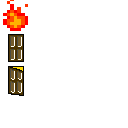
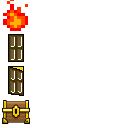
Add treasure version
Fix issue where trajectory IDs would change due to randomization

Changed region(s): [[0.0, 0.7812, 0.25, 0.9688]]

diff --git a/interface/src/sorting-index.ts b/interface/src/sorting-index.ts
@@ -9,7 +9,7 @@ import {GridworldGame} from "./gridworld-game";
 
 
 let terrain =  "'XXXXXXX',\
-    'X    GX',\
+    'XR   GX',\
         'X-----X',\
         'X--F--X',\
         'X-----X',\
@@ -17,7 +17,9 @@ let terrain =  "'XXXXXXX',\
         'XXXXXXX'"
 const batch = [{"trajectory": [0, 0, 0, 1, 0, 1, 1, 1, 0, 0], "return": 1.0, "entropy": 1.28819256228539}, {"trajectory": [1, 1, 1, 0, 1, 0, 0, 0, 0, 0], "return": 1.0, "entropy": 1.4103868378388813}, {"trajectory": [0, 0, 1, 1, 0, 1, 1, 0, 0, 0], "return": 1.0, "entropy": 1.4429867280989206}, {"trajectory": [1, 0, 1, 0, 0, 1, 1, 0, 0, 0], "return": 1.0, "entropy": 1.4672969161666547}, {"trajectory": [1, 0, 1, 0, 1, 0, 1, 0, 0, 0], "return": 1.0, "entropy": 1.4837686468584161}, {"trajectory": [0, 1, 0, 1, 1, 0, 0, 1, 0, 0], "return": 1.0, "entropy": 1.4917118291027376}, {"trajectory": [0, 0, 1, 0, 0, 1, 1, 1, 0, 0], "return": 1.0, "entropy": 1.5042453752190077}, {"trajectory": [0, 1, 1, 0, 0, 0, 1, 1, 0, 0], "return": 1.0, "entropy": 1.508412008076134}, {"trajectory": [0, 1, 0, 1, 1, 1, 0, 0, 0, 0], "return": 1.0, "entropy": 1.5094403920939814}, {"trajectory": [0, 1, 0, 1, 1, 0, 1, 0, 0, 0], "return": 1.0, "entropy": 1.5116626204309886}, {"trajectory": [1, 0, 1, 1, 0, 0, 0, 1, 0, 0], "return": 1.0, "entropy": 1.5310007481853964}, {"trajectory": [0, 0, 1, 0, 1, 0, 1, 1, 0, 0], "return": 1.0, "entropy": 1.5345223577036649}, {"trajectory": [0, 1, 1, 1, 1, 0, 0, 0, 0, 0], "return": 1.0, "entropy": 1.5415051673414226}, {"trajectory": [1, 0, 1, 1, 0, 1, 0, 0, 0, 0], "return": 1.0, "entropy": 1.5429626891631936}, {"trajectory": [0, 0, 1, 0, 1, 1, 1, 0, 0, 0], "return": 1.0, "entropy": 1.5528003944973403}, {"trajectory": [1, 0, 0, 1, 0, 0, 1, 1, 0, 0], "return": 1.0, "entropy": 1.553722847735663}, {"trajectory": [1, 0, 1, 1, 1, 0, 0, 0, 0, 0], "return": 1.0, "entropy": 1.5562122557494682}, {"trajectory": [1, 1, 1, 0, 0, 0, 0, 1, 0, 0], "return": 1.0, "entropy": 1.568979224326843}, {"trajectory": [1, 0, 0, 1, 1, 0, 0, 1, 0, 0], "return": 1.0, "entropy": 1.5695674185000275}, {"trajectory": [0, 1, 0, 0, 0, 1, 1, 1, 0, 0], "return": 1.0, "entropy": 1.569603172834871}, {"trajectory": [0, 1, 1, 0, 0, 1, 1, 0, 0, 0], "return": 1.0, "entropy": 1.585197468439806}, {"trajectory": [1, 1, 0, 0, 1, 1, 0, 0, 0, 0], "return": 1.0, "entropy": 1.5874618600147672}, {"trajectory": [1, 0, 0, 0, 1, 1, 0, 1, 0, 0], "return": 1.0, "entropy": 1.5876716344145083}, {"trajectory": [1, 0, 1, 0, 0, 1, 0, 1, 0, 0], "return": 1.0, "entropy": 1.5981144795743414}, {"trajectory": [1, 1, 0, 1, 0, 0, 0, 1, 0, 0], "return": 1.0, "entropy": 1.6039400902547996}, {"trajectory": [0, 0, 0, 1, 1, 0, 1, 1, 0, 0], "return": 1.0, "entropy": 1.6114582494765612}, {"trajectory": [1, 1, 0, 1, 1, 0, 0, 0, 0, 0], "return": 1.0, "entropy": 1.6124188749237782}, {"trajectory": [0, 0, 0, 0, 1, 1, 1, 1, 0, 0], "return": 1.0, "entropy": 1.6129756838729739}, {"trajectory": [1, 1, 0, 1, 0, 0, 1, 0, 0, 0], "return": 1.0, "entropy": 1.6157132356012318}, {"trajectory": [0, 0, 1, 1, 0, 0, 1, 1, 0, 0], "return": 1.0, "entropy": 1.6249192162450719}, {"trajectory": [1, 0, 1, 0, 1, 1, 0, 0, 0, 0], "return": 1.0, "entropy": 1.625005873190119}, {"trajectory": [1, 1, 0, 1, 0, 1, 0, 0, 0, 0], "return": 1.0, "entropy": 1.6308618088625422}, {"trajectory": [1, 1, 0, 0, 0, 1, 0, 1, 0, 0], "return": 1.0, "entropy": 1.6323353113161425}, {"trajectory": [1, 0, 0, 1, 0, 1, 1, 0, 0, 0], "return": 1.0, "entropy": 1.6396534555747713}, {"trajectory": [0, 0, 0, 1, 1, 1, 1, 0, 0, 0], "return": 1.0, "entropy": 1.6589588107988238}, {"trajectory": [1, 0, 0, 1, 1, 0, 1, 0, 0, 0], "return": 1.0, "entropy": 1.6631103465663835}, {"trajectory": [0, 0, 1, 1, 0, 1, 0, 1, 0, 0], "return": 1.0, "entropy": 1.6640167792703218}, {"trajectory": [0, 1, 0, 1, 0, 0, 1, 1, 0, 0], "return": 1.0, "entropy": 1.6658285588016128}, {"trajectory": [1, 0, 0, 0, 1, 0, 1, 1, 0, 0], "return": 1.0, "entropy": 1.6785099116656925}, {"trajectory": [0, 1, 1, 1, 0, 1, 0, 0, 0, 0], "return": 1.0, "entropy": 1.6827511438296991}, {"trajectory": [1, 1, 0, 0, 0, 1, 1, 0, 0, 0], "return": 1.0, "entropy": 1.6839341123333333}, {"trajectory": [1, 1, 1, 0, 0, 1, 0, 0, 0, 0], "return": 1.0, "entropy": 1.6915839511238013}, {"trajectory": [0, 1, 0, 0, 1, 1, 0, 1, 0, 0], "return": 1.0, "entropy": 1.693570596331061}, {"trajectory": [0, 0, 1, 1, 1, 0, 1, 0, 0, 0], "return": 1.0, "entropy": 1.69713223469606}, {"trajectory": [1, 0, 0, 1, 0, 1, 0, 1, 0, 0], "return": 1.0, "entropy": 1.7208133125381964}, {"trajectory": [0, 1, 1, 0, 0, 1, 0, 1, 0, 0], "return": 1.0, "entropy": 1.7246528804784558}, {"trajectory": [0, 0, 1, 0, 1, 1, 0, 1, 0, 0], "return": 1.0, "entropy": 1.7261735888985332}, {"trajectory": [1, 0, 0, 0, 0, 1, 1, 1, 0, 0], "return": 1.0, "entropy": 1.7304793747470928}, {"trajectory": [0, 1, 1, 1, 0, 0, 1, 0, 0, 0], "return": 1.0, "entropy": 1.7347178349859655}, {"trajectory": [1, 0, 1, 0, 0, 0, 1, 1, 0, 0], "return": 1.0, "entropy": 1.7351672740702968}, {"trajectory": [0, 0, 0, 1, 1, 1, 0, 1, 0, 0], "return": 1.0, "entropy": 1.7363869894869706}, {"trajectory": [0, 1, 0, 1, 0, 1, 1, 0, 0, 0], "return": 1.0, "entropy": 1.7408609039138916}, {"trajectory": [0, 0, 1, 1, 1, 0, 0, 1, 0, 0], "return": 1.0, "entropy": 1.7413396528758762}, {"trajectory": [0, 1, 1, 0, 1, 1, 0, 0, 0, 0], "return": 1.0, "entropy": 1.7470198890092876}, {"trajectory": [0, 1, 1, 1, 0, 0, 0, 1, 0, 0], "return": 1.0, "entropy": 1.7556025872560088}, {"trajectory": [0, 0, 1, 1, 1, 1, 0, 0, 0, 0], "return": 1.0, "entropy": 1.7616303991927371}, {"trajectory": [1, 0, 0, 1, 1, 1, 0, 0, 0, 0], "return": 1.0, "entropy": 1.7670171873471079}, {"trajectory": [1, 0, 1, 0, 1, 0, 0, 1, 0, 0], "return": 1.0, "entropy": 1.7743825131796358}, {"trajectory": [0, 1, 0, 0, 1, 0, 1, 1, 0, 0], "return": 1.0, "entropy": 1.7842840840165064}, {"trajectory": [1, 1, 0, 0, 0, 0, 1, 1, 0, 0], "return": 1.0, "entropy": 1.8143181437363167}, {"trajectory": [1, 1, 1, 0, 0, 0, 1, 0, 0, 0], "return": 1.0, "entropy": 1.8212448853049747}, {"trajectory": [1, 1, 0, 0, 1, 0, 0, 1, 0, 0], "return": 1.0, "entropy": 1.8229807729232566}, {"trajectory": [1, 0, 1, 1, 0, 0, 1, 0, 0, 0], "return": 1.0, "entropy": 1.8259282589986072}, {"trajectory": [1, 1, 0, 0, 1, 0, 1, 0, 0, 0], "return": 1.0, "entropy": 1.8480173747213953}, {"trajectory": [0, 1, 1, 0, 1, 0, 1, 0, 0, 0], "return": 1.0, "entropy": 1.8687319246845342}, {"trajectory": [1, 1, 1, 1, 0, 0, 0, 0, 0, 0], "return": 1.0, "entropy": 1.8900492266796354}, {"trajectory": [0, 1, 0, 1, 0, 1, 0, 1, 0, 0], "return": 1.0, "entropy": 1.9100732226126722}, {"trajectory": [0, 1, 1, 0, 1, 0, 0, 1, 0, 0], "return": 1.0, "entropy": 1.9332037742014592}, {"trajectory": [0, 1, 0, 0, 1, 1, 1, 0, 0, 0], "return": 1.0, "entropy": 1.9819690384145807}, {"trajectory": [1, 0, 0, 0, 1, 1, 1, 0, 0, 0], "return": 1.0, "entropy": 1.9910898260371859}]
 
-shuffleArray(batch)
+// We're going to shuffle indices, from which we'll take the first N. This way the labeling stays consistent
+const indices = [...Array(batch.length).keys()]
+shuffleArray(indices)
 
 const unsorted = document.getElementById("unsorted")
 const columnsContainer = document.getElementById("columns")
@@ -53,14 +55,15 @@ for (let i = 0; i < 4; i++) {
 }
 
 for (let i = 0; i < 25; i++) {
+    const itemIndex = indices[i]
     const list_item = document.createElement("li")
-    list_item.id = "trajectory" + i
+    list_item.id = "trajectory" + itemIndex
     const new_element = document.createElement("gridworld-display")
     //const new_element = document.createElement("div")
     //new_element.classList.add("stand-in")
     new_element.setAttribute("stepwise", "false")
     new_element.setAttribute("terrain", terrain)
-    let traj_string = batch[i]["trajectory"].join(", ")
+    let traj_string = batch[itemIndex]["trajectory"].join(", ")
     new_element.setAttribute("trajectory", traj_string)
 
     list_item.setAttribute("draggable", "true")

diff --git a/interface/src/gridworld-game.ts b/interface/src/gridworld-game.ts
@@ -5,7 +5,8 @@ const terrain_to_img: { [key in TerrainType]: string[] } = {
     [TerrainType.Empty]: ['colors','sol_base2.png'],
     [TerrainType.Goal]: ['landmarks','door.png'],
     [TerrainType.Fire]: ['landmarks','fire.png'],
-    [TerrainType.Wall]: ['colors', "sol_base02_full.png"]
+    [TerrainType.Wall]: ['colors', "sol_base02_full.png"],
+    [TerrainType.Reward]: ['landmarks', "treasure.png"],
 };
 
 export class GridworldGame {
@@ -29,7 +30,7 @@ export class GridworldGame {
         tileSize = 128,
         gameWidth = tileSize * start_grid[0].length,
         gameHeight = tileSize * start_grid.length,
-        assetsLoc = "./assets/",
+        assetsLoc = "https://mturk.nickwalker.us/attribution/sorting/assets/",
         interactive: boolean = true
     ) {
         this.gameWidth = gameWidth;

diff --git a/interface/src/gridworld-mdp.ts b/interface/src/gridworld-mdp.ts
@@ -31,7 +31,8 @@ export enum TerrainType {
     Empty,
     Wall,
     Fire,
-    Goal
+    Goal,
+    Reward
 }
 
 export const characterToTerrainType: { [key: string]: TerrainType } = {
@@ -39,7 +40,9 @@ export const characterToTerrainType: { [key: string]: TerrainType } = {
     " ": TerrainType.Empty,
     "X": TerrainType.Wall,
     "F": TerrainType.Fire,
-    "G": TerrainType.Goal
+    "G": TerrainType.Goal,
+    "T": TerrainType.Reward,
+    "R": TerrainType.Reward,
 }
 
 export function textToTerrain(grid: string[]) {

diff --git a/interface/sorting.html b/interface/sorting.html
@@ -14,7 +14,7 @@
 
         <gridworld-display id="player" terrain=
                 "'XXXXXXX',
-    'X    GX',
+    'XR   GX',
     'X-----X',
     'X--F--X',
     'X-----X',
